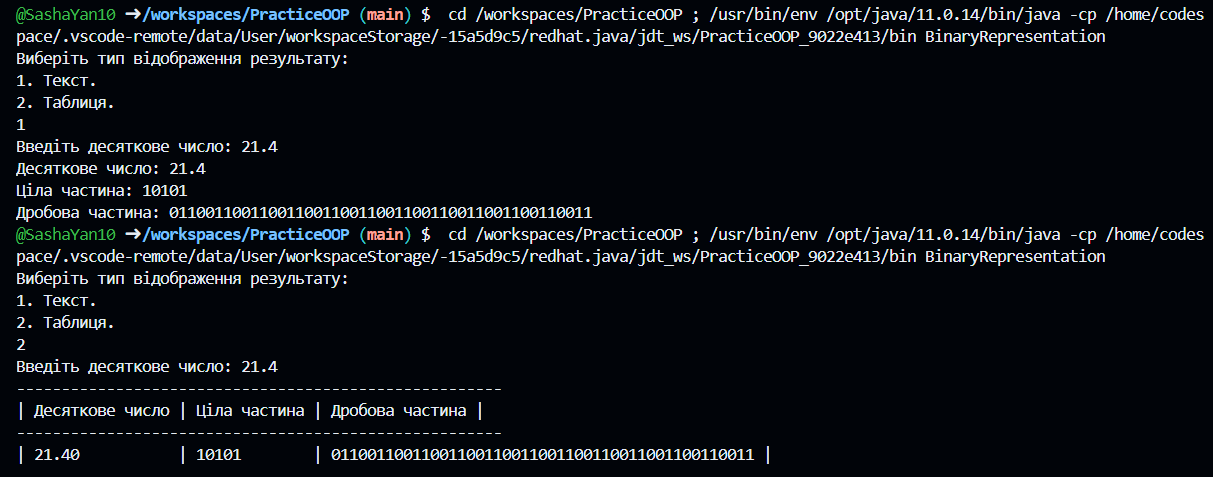
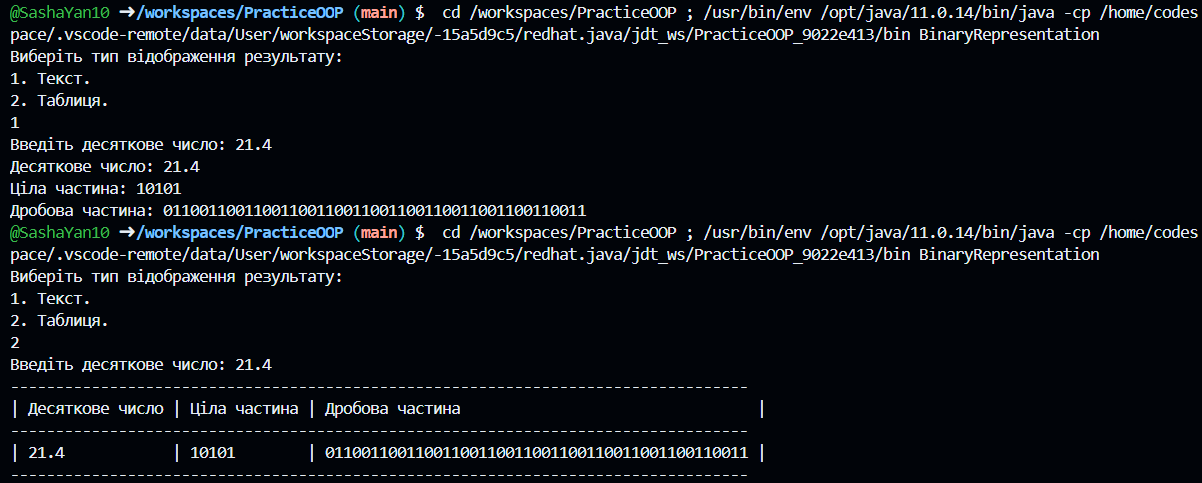
Task 4 remade

Changed region(s): [[0.0, 0.0, 1.0, 0.9686]]

diff --git a/src/Task21/src/BinaryRepresentation.java b/src/Task21/src/BinaryRepresentation.java
@@ -69,12 +69,18 @@ public class BinaryRepresentation implements CalculatorFactory {
          * @param result Результат обчислень.
          */
         public void Table(BinaryResult result) {
-            System.out.println("------------------------------------------------------");
-            System.out.println("| Десяткове число | Ціла частина | Дробова частина |");
-            System.out.println("------------------------------------------------------");
-            System.out.printf("| %-15.2f | %-12s | %-15s |\n", result.getNum(), result.getBinaryIntPart(), result.getBinaryFracPart());
-            System.out.println("------------------------------------------------------");
+            int numWidth = Math.max(String.valueOf(result.getNum()).length(), 15);
+            int intPartWidth = Math.max(result.getBinaryIntPart().length(), 12);
+            int fracPartWidth = Math.max(result.getBinaryFracPart().length(), 15);
+            
+            String formatString = "| %-"+numWidth+"s | %-"+intPartWidth+"s | %-"+fracPartWidth+"s |%n";
+            int totalWidth = numWidth + intPartWidth + fracPartWidth + 8;
+            
+            System.out.println("-".repeat(totalWidth));
+            System.out.printf(formatString, "Десяткове число", "Ціла частина", "Дробова частина");
+            System.out.println("-".repeat(totalWidth));
+            System.out.printf(formatString, result.getNum(), result.getBinaryIntPart(), result.getBinaryFracPart());
+            System.out.println("-".repeat(totalWidth));
         }
     }
-    
 }

diff --git a/README.md b/README.md
@@ -561,14 +561,20 @@ public class BinaryRepresentation implements CalculatorFactory {
          * @param result Результат обчислень.
          */
         public void Table(BinaryResult result) {
-            System.out.println("------------------------------------------------------");
-            System.out.println("| Десяткове число | Ціла частина | Дробова частина |");
-            System.out.println("------------------------------------------------------");
-            System.out.printf("| %-15.2f | %-12s | %-15s |\n", result.getNum(), result.getBinaryIntPart(), result.getBinaryFracPart());
-            System.out.println("------------------------------------------------------");
+            int numWidth = Math.max(String.valueOf(result.getNum()).length(), 15);
+            int intPartWidth = Math.max(result.getBinaryIntPart().length(), 12);
+            int fracPartWidth = Math.max(result.getBinaryFracPart().length(), 15);
+            
+            String formatString = "| %-"+numWidth+"s | %-"+intPartWidth+"s | %-"+fracPartWidth+"s |%n";
+            int totalWidth = numWidth + intPartWidth + fracPartWidth + 8;
+            
+            System.out.println("-".repeat(totalWidth));
+            System.out.printf(formatString, "Десяткове число", "Ціла частина", "Дробова частина");
+            System.out.println("-".repeat(totalWidth));
+            System.out.printf(formatString, result.getNum(), result.getBinaryIntPart(), result.getBinaryFracPart());
+            System.out.println("-".repeat(totalWidth));
         }
     }
-    
 }
 ````
 
